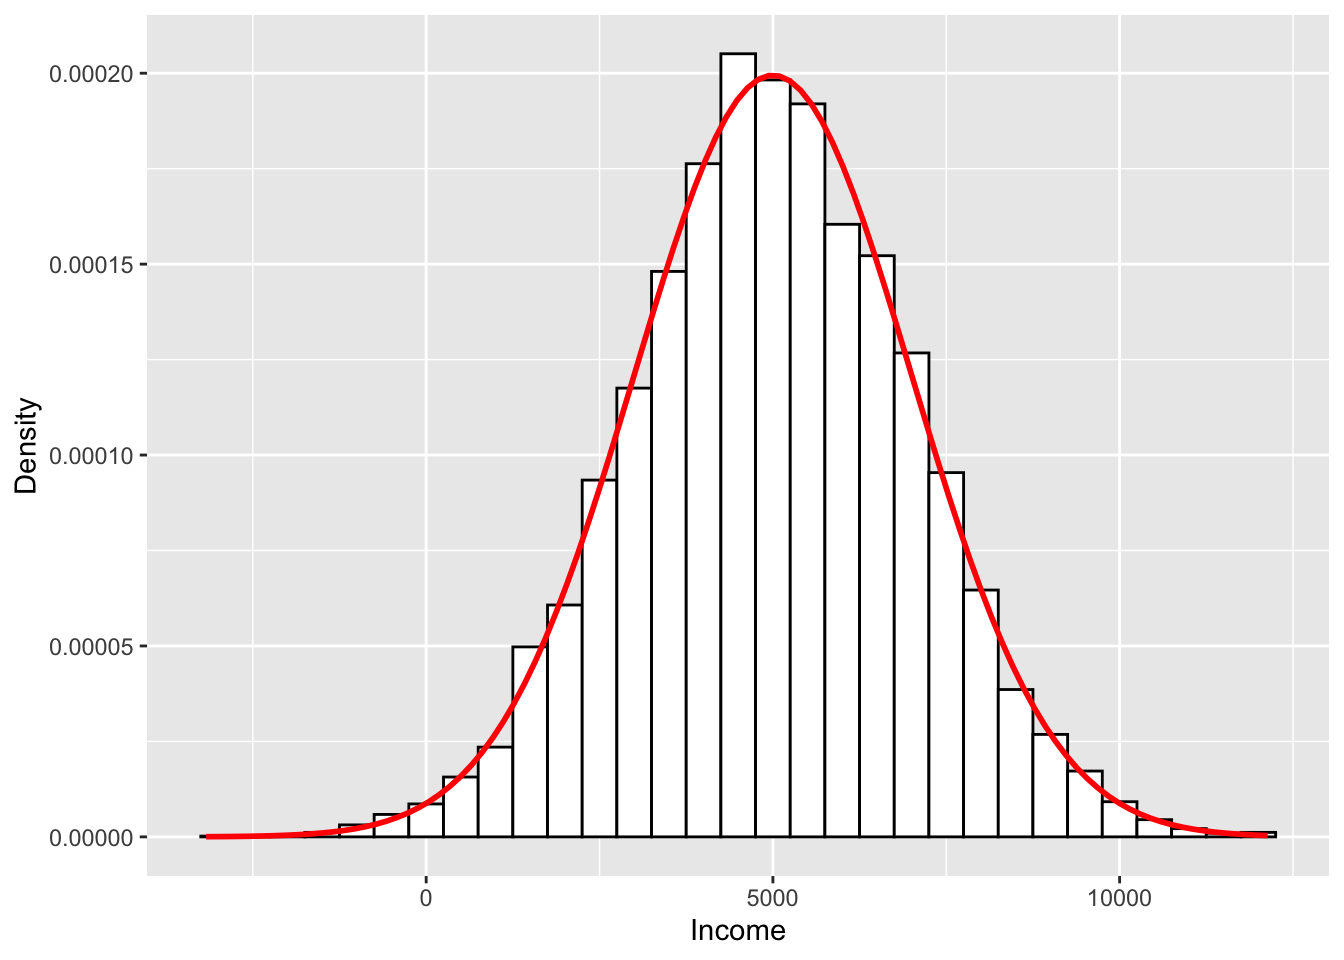
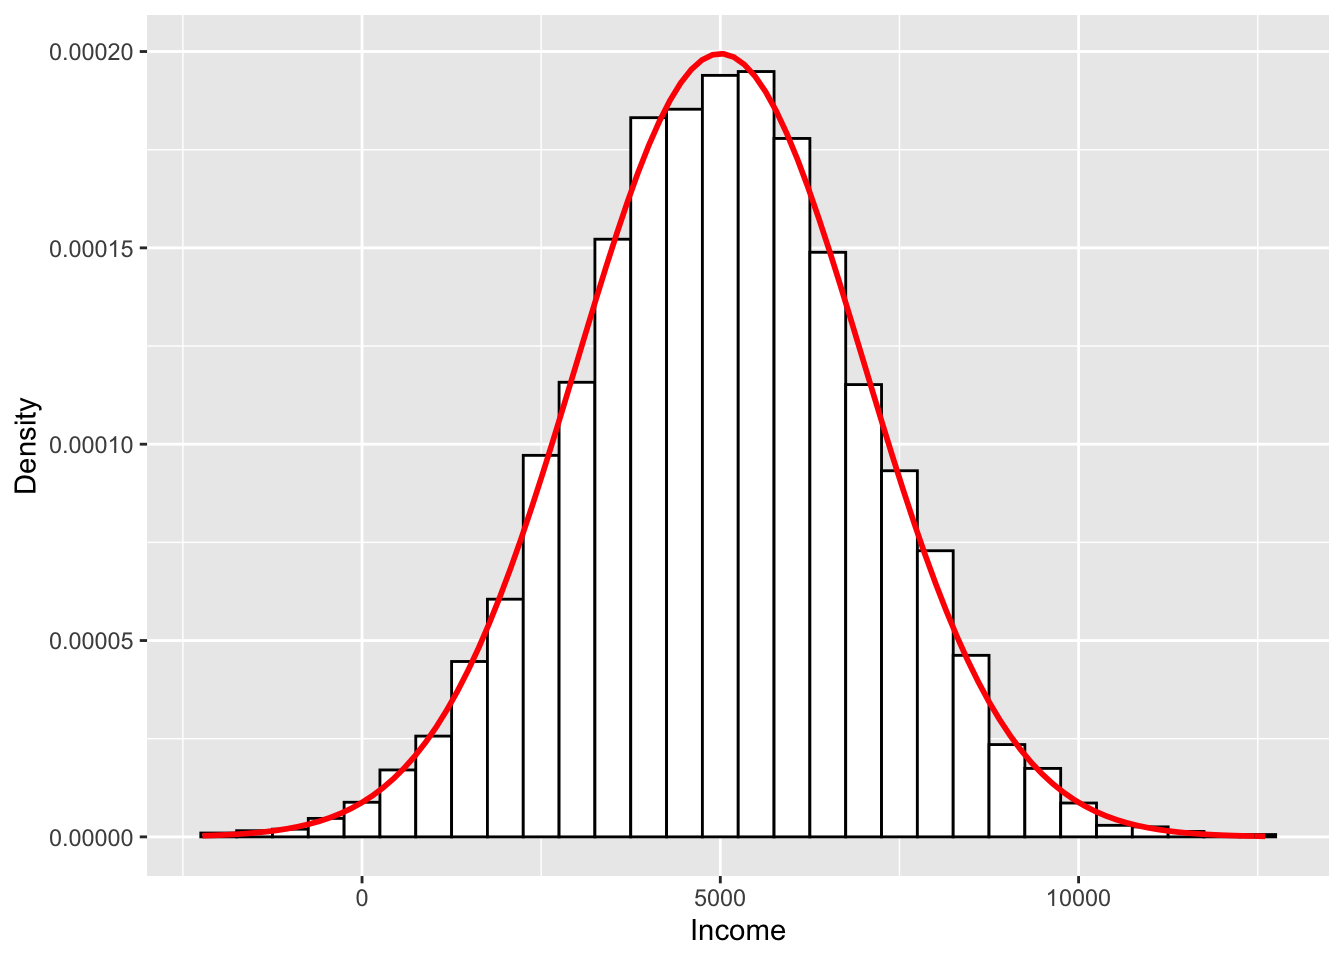
no message

diff --git a/rprogramming/index.html b/rprogramming/index.html
@@ -624,6 +624,7 @@ for (city in Iter_Vec2) {
 <p>これは1の段は<code>1 * 1</code>まで、2の段は<code>2 * 2</code>まで、3の段は<code>3 * 3</code>まで計算し、出力するコードです。2の段の場合、<code>2 * 3</code>や<code>2 * 9</code>などが出力されませんが、これは3の段において<code>3 * 2</code>が、9の段で<code>9 * 2</code>が出力されるので問題ないでしょう。このように多重<code>for()</code>文は複数のベクトルの組み合わせ全てにおいて処理を行う場合、有効です。</p>
 <p>複数のベクトルでなく、データフレームなどの2次元以上データにも多重<code>for()</code>文は使われます。データフレームは複数のベクトルで構成されているため、実質的には複数のベクトルを扱うことになります。今回は例として、<a href="../Data/FIFA_Men.csv">FIFA_Men.csv</a>を利用し、それぞれの国のチーム名、FAFAランキング、ポイントをまとめて表示するコードを書いてみます。全てのチームを出すと結果が長くなるので、OFC (オセアニアサッカー連盟)所属チームだけに絞ります。</p>
 <pre class="r"><code># FIFA_Men.csvを読み込み、myDFという名で保存
+# ファイルのパスは適宜修正してください
 myDF &lt;- read.csv(&quot;Data/FIFA_Men.csv&quot;)
 # myDFのConfederation列がOFCの行だけを抽出
 myDF &lt;- myDF[myDF$Confederation == &quot;OFC&quot;, ]
@@ -800,17 +801,17 @@ while (Total &lt; 30) {
   
   Trial &lt;- Trial + 1
 }</code></pre>
-<pre><code>## [1] &quot;1回目のサイコロ投げの結果: 5(これまでの総和: 5)&quot;
-## [1] &quot;2回目のサイコロ投げの結果: 1(これまでの総和: 6)&quot;
-## [1] &quot;3回目のサイコロ投げの結果: 2(これまでの総和: 8)&quot;
-## [1] &quot;4回目のサイコロ投げの結果: 2(これまでの総和: 10)&quot;
-## [1] &quot;5回目のサイコロ投げの結果: 1(これまでの総和: 11)&quot;
-## [1] &quot;6回目のサイコロ投げの結果: 2(これまでの総和: 13)&quot;
-## [1] &quot;7回目のサイコロ投げの結果: 1(これまでの総和: 14)&quot;
-## [1] &quot;8回目のサイコロ投げの結果: 6(これまでの総和: 20)&quot;
-## [1] &quot;9回目のサイコロ投げの結果: 5(これまでの総和: 25)&quot;
-## [1] &quot;10回目のサイコロ投げの結果: 4(これまでの総和: 29)&quot;
-## [1] &quot;11回目のサイコロ投げの結果: 2(これまでの総和: 31)&quot;</code></pre>
+<pre><code>## [1] &quot;1回目のサイコロ投げの結果: 1(これまでの総和: 1)&quot;
+## [1] &quot;2回目のサイコロ投げの結果: 3(これまでの総和: 4)&quot;
+## [1] &quot;3回目のサイコロ投げの結果: 4(これまでの総和: 8)&quot;
+## [1] &quot;4回目のサイコロ投げの結果: 5(これまでの総和: 13)&quot;
+## [1] &quot;5回目のサイコロ投げの結果: 5(これまでの総和: 18)&quot;
+## [1] &quot;6回目のサイコロ投げの結果: 3(これまでの総和: 21)&quot;
+## [1] &quot;7回目のサイコロ投げの結果: 2(これまでの総和: 23)&quot;
+## [1] &quot;8回目のサイコロ投げの結果: 2(これまでの総和: 25)&quot;
+## [1] &quot;9回目のサイコロ投げの結果: 2(これまでの総和: 27)&quot;
+## [1] &quot;10回目のサイコロ投げの結果: 2(これまでの総和: 29)&quot;
+## [1] &quot;11回目のサイコロ投げの結果: 6(これまでの総和: 35)&quot;</code></pre>
 <p>それでは、コードの説明をします。まず、これまで出た目の和を記録する変数<code>Total</code>を用意し、初期値として0を格納します。また、何回目の投げかを記録するための<code>Trial</code>変数を記録し、初期値として1を格納しておきます (コードの1、2行目)。</p>
 <p>続いて<code>while()</code>文を入れます。反復する条件は<code>Total</code>が30より小さい場合と設定します。つまり、<code>Total</code>が30以上になったら反復を終了することを意味します (コードの4行目)。</p>
 <p>つづいて、サイコロ投げをし、出た目を<code>Dice</code>という変数に格納します。サイコロ投げは1から6の間の整数から無作為に一つを値を抽出することでできます。そこで使われるのが<code>sample()</code>関数です (コードの5行目)。<code>sample()</code>関数は与えられたベクトル内の要素を無作為に抽出する関数です。<code>sample(c(1, 2, 3, 4, 5, 6), 1)</code>は「<code>c(1, 2, 3, 4, 5, 6)</code>から1つの要素を無作為に抽出せよ」という意味です。むろん、複数の要素を抽出することも可能ですし、数値型ベクトルでなく、文字型ベクトルから抽出することも可能です。サイコロ投げをしたら、その目を<code>Total</code>の値に足します (コードの6行目)。</p>
@@ -831,15 +832,16 @@ for (Trial in 1:30) {
     break() # ()は省略可能
   }
 }</code></pre>
-<pre><code>## [1] &quot;1回目のサイコロ投げの結果: 3 (これまでの総和: 3)&quot;
-## [1] &quot;2回目のサイコロ投げの結果: 2 (これまでの総和: 5)&quot;
-## [1] &quot;3回目のサイコロ投げの結果: 1 (これまでの総和: 6)&quot;
-## [1] &quot;4回目のサイコロ投げの結果: 6 (これまでの総和: 12)&quot;
-## [1] &quot;5回目のサイコロ投げの結果: 1 (これまでの総和: 13)&quot;
-## [1] &quot;6回目のサイコロ投げの結果: 5 (これまでの総和: 18)&quot;
-## [1] &quot;7回目のサイコロ投げの結果: 5 (これまでの総和: 23)&quot;
-## [1] &quot;8回目のサイコロ投げの結果: 4 (これまでの総和: 27)&quot;
-## [1] &quot;9回目のサイコロ投げの結果: 5 (これまでの総和: 32)&quot;</code></pre>
+<pre><code>## [1] &quot;1回目のサイコロ投げの結果: 6 (これまでの総和: 6)&quot;
+## [1] &quot;2回目のサイコロ投げの結果: 3 (これまでの総和: 9)&quot;
+## [1] &quot;3回目のサイコロ投げの結果: 3 (これまでの総和: 12)&quot;
+## [1] &quot;4回目のサイコロ投げの結果: 2 (これまでの総和: 14)&quot;
+## [1] &quot;5回目のサイコロ投げの結果: 1 (これまでの総和: 15)&quot;
+## [1] &quot;6回目のサイコロ投げの結果: 3 (これまでの総和: 18)&quot;
+## [1] &quot;7回目のサイコロ投げの結果: 2 (これまでの総和: 20)&quot;
+## [1] &quot;8回目のサイコロ投げの結果: 2 (これまでの総和: 22)&quot;
+## [1] &quot;9回目のサイコロ投げの結果: 4 (これまでの総和: 26)&quot;
+## [1] &quot;10回目のサイコロ投げの結果: 6 (これまでの総和: 32)&quot;</code></pre>
 <p>まず、サイコロを何回投げれば良いかは分かりませんが6面サイコロの場合、30回以内には必ず合計30になるので、まず<code>Trial in 1:30</code>とします。あとは<code>while()</code>文の書き方とほぼ同じですが、今回は<code>i</code>が自動的に更新されるので<code>i &lt;- i + 1</code>は不要です。ただし、一定の条件が満たされる場合、<code>for()</code>文を停止する必要があります。そこで登場するのが条件分岐と<code>break()</code>です。条件分岐は次節で説明しますが、これは「<code>Total</code>が30以上になった場合、ループから脱出せよ」を意味します。このループからの脱出を指示する関数が<code>break()</code>です。ちなみに、<code>break()</code>関数は<code>()</code>を抜いて<code>break</code>と書いても問題ありません。また、<code>if(){}</code>内の処理内容は一行ですので、<code>if (Total &gt;= 30) break</code>のような書き方でも問題ありません。</p>
 <p>これは余談ですが、結果の表示に今回はこれまで使ってきた<code>print()</code>と<code>paste0()</code> (または<code>paste()</code>)を使わず、<code>sprintf()</code>を使いました。人によってはこっちの書き方を好む場合もあります。<code>sprintf()</code>内の<code>%d</code>はその位置に指定された変数の値を整数として代入することを意味します。<code>sprintf()</code>はまず、出力する文字列を指定し、続いて代入する変数を順番に引数として入れます。<code>%s</code>は文字型、<code>%f</code>は実数を意味します。<code>%f</code>の場合、少数点の桁数も指定可能であり、小数点2桁まで表示させる場合は<code>%.2f</code>のように表記します。以下のコードは3つの変数の値と文字列を結合する処理を<code>print(paste0())</code>と<code>sprintf()</code>を用いて書いたものであり、同じ動きをします。</p>
 <pre class="r"><code>Name   &lt;- &quot;Song&quot;
@@ -1317,59 +1319,16 @@ DQ_Attack &lt;- function(attack, defence, hp, enemy) {
 <p>初めて見る関数が3つありますね。まず、<code>floor()</code>関数は引数の端数は切り捨てる関数です。たとえば、<code>floor(2.1)</code>も<code>floor(2.6)</code>も結果は2です。続いて、<code>runif()</code>関数は指定された範囲の一様分布から乱数を生成する関数です。引数は生成する乱数の個数 (<code>n</code>)、最小値 (<code>min</code>)、最大値 (<code>max</code>)の3つです。<code>runif(5, 3, 10)</code>なら最小値3、最大値10の乱数を5個生成するという意味です。正規分布は平均値周辺の値が生成されやすい一方、一様分布の場合、ある値が抽出される確率は同じです。最後に<code>round()</code>関数は四捨五入の関数です。引数は2つあり、1つ目の引数は数値型のベクトルです。2つ目は丸める小数点です。たとえば、<code>round(3.127, 1)</code>の結果は<code>3.1</code>であり、<code>round(3.127, 2)</code>の結果は<code>3.13</code>となります。</p>
 <p>それでは「ひのきのぼう」を装備したレベル1の勇者を考えてみましょう。ドラクエ5の場合、Lv1勇者の力は11、「ひのきのぼう」の攻撃力は2ですので、攻撃力は13です。まずは定番のスライムから狩ってみましょう。スライムのHPと守備力は両方7です。</p>
 <pre class="r"><code>DQ_Attack(13, defence = 7, hp = 7, &quot;スライム&quot;)</code></pre>
-<pre><code>## [1] &quot;スライムに6のダメージ!!&quot;
+<pre><code>## [1] &quot;スライムに5のダメージ!!&quot;
 ## [1] &quot;スライムに4のダメージ!!&quot;</code></pre>
 <pre><code>## [1] &quot;スライムをやっつけた！&quot;</code></pre>
 <p>まぁ、こんなもんでしょう。それではスライムナイト (=ピエール)はどうでしょう。スライムナイトのHPのは40、守備力は44です。</p>
 <pre class="r"><code>DQ_Attack(13, defence = 44, hp = 40, &quot;スライムナイト&quot;)</code></pre>
 <pre><code>## [1] &quot;スライムナイトに0のダメージ!!&quot;
-## [1] &quot;スライムナイトに1のダメージ!!&quot;
-## [1] &quot;スライムナイトに0のダメージ!!&quot;
-## [1] &quot;スライムナイトに1のダメージ!!&quot;
-## [1] &quot;スライムナイトに0のダメージ!!&quot;
-## [1] &quot;スライムナイトに0のダメージ!!&quot;
-## [1] &quot;スライムナイトに0のダメージ!!&quot;
-## [1] &quot;スライムナイトに0のダメージ!!&quot;
-## [1] &quot;スライムナイトに1のダメージ!!&quot;
-## [1] &quot;スライムナイトに0のダメージ!!&quot;
-## [1] &quot;スライムナイトに1のダメージ!!&quot;
-## [1] &quot;スライムナイトに0のダメージ!!&quot;
-## [1] &quot;スライムナイトに0のダメージ!!&quot;
-## [1] &quot;スライムナイトに0のダメージ!!&quot;
-## [1] &quot;スライムナイトに0のダメージ!!&quot;
-## [1] &quot;スライムナイトに1のダメージ!!&quot;
 ## [1] &quot;スライムナイトに0のダメージ!!&quot;
 ## [1] &quot;スライムナイトに0のダメージ!!&quot;
 ## [1] &quot;スライムナイトに1のダメージ!!&quot;
 ## [1] &quot;スライムナイトに1のダメージ!!&quot;
-## [1] &quot;スライムナイトに1のダメージ!!&quot;
-## [1] &quot;スライムナイトに1のダメージ!!&quot;
-## [1] &quot;スライムナイトに1のダメージ!!&quot;
-## [1] &quot;スライムナイトに1のダメージ!!&quot;
-## [1] &quot;スライムナイトに1のダメージ!!&quot;
-## [1] &quot;スライムナイトに1のダメージ!!&quot;
-## [1] &quot;スライムナイトに1のダメージ!!&quot;
-## [1] &quot;スライムナイトに1のダメージ!!&quot;
-## [1] &quot;スライムナイトに1のダメージ!!&quot;
-## [1] &quot;スライムナイトに0のダメージ!!&quot;
-## [1] &quot;スライムナイトに0のダメージ!!&quot;
-## [1] &quot;スライムナイトに0のダメージ!!&quot;
-## [1] &quot;スライムナイトに1のダメージ!!&quot;
-## [1] &quot;スライムナイトに1のダメージ!!&quot;
-## [1] &quot;スライムナイトに0のダメージ!!&quot;
-## [1] &quot;スライムナイトに1のダメージ!!&quot;
-## [1] &quot;スライムナイトに0のダメージ!!&quot;
-## [1] &quot;スライムナイトに0のダメージ!!&quot;
-## [1] &quot;スライムナイトに1のダメージ!!&quot;
-## [1] &quot;スライムナイトに0のダメージ!!&quot;
-## [1] &quot;スライムナイトに1のダメージ!!&quot;
-## [1] &quot;スライムナイトに1のダメージ!!&quot;
-## [1] &quot;スライムナイトに1のダメージ!!&quot;
-## [1] &quot;スライムナイトに0のダメージ!!&quot;
-## [1] &quot;スライムナイトに0のダメージ!!&quot;
-## [1] &quot;スライムナイトに0のダメージ!!&quot;
-## [1] &quot;スライムナイトに1のダメージ!!&quot;
-## [1] &quot;スライムナイトに0のダメージ!!&quot;
 ## [1] &quot;スライムナイトに1のダメージ!!&quot;
 ## [1] &quot;スライムナイトに0のダメージ!!&quot;
 ## [1] &quot;スライムナイトに1のダメージ!!&quot;
@@ -1378,9 +1337,22 @@ DQ_Attack &lt;- function(attack, defence, hp, enemy) {
 ## [1] &quot;スライムナイトに0のダメージ!!&quot;
 ## [1] &quot;スライムナイトに1のダメージ!!&quot;
 ## [1] &quot;スライムナイトに1のダメージ!!&quot;
+## [1] &quot;スライムナイトに1のダメージ!!&quot;
 ## [1] &quot;スライムナイトに0のダメージ!!&quot;
 ## [1] &quot;スライムナイトに1のダメージ!!&quot;
 ## [1] &quot;スライムナイトに0のダメージ!!&quot;
+## [1] &quot;スライムナイトに0のダメージ!!&quot;
+## [1] &quot;スライムナイトに1のダメージ!!&quot;
+## [1] &quot;スライムナイトに1のダメージ!!&quot;
+## [1] &quot;スライムナイトに0のダメージ!!&quot;
+## [1] &quot;スライムナイトに1のダメージ!!&quot;
+## [1] &quot;スライムナイトに1のダメージ!!&quot;
+## [1] &quot;スライムナイトに0のダメージ!!&quot;
+## [1] &quot;スライムナイトに1のダメージ!!&quot;
+## [1] &quot;スライムナイトに1のダメージ!!&quot;
+## [1] &quot;スライムナイトに0のダメージ!!&quot;
+## [1] &quot;スライムナイトに0のダメージ!!&quot;
+## [1] &quot;スライムナイトに1のダメージ!!&quot;
 ## [1] &quot;スライムナイトに1のダメージ!!&quot;
 ## [1] &quot;スライムナイトに0のダメージ!!&quot;
 ## [1] &quot;スライムナイトに0のダメージ!!&quot;
@@ -1391,16 +1363,44 @@ DQ_Attack &lt;- function(attack, defence, hp, enemy) {
 ## [1] &quot;スライムナイトに1のダメージ!!&quot;
 ## [1] &quot;スライムナイトに0のダメージ!!&quot;
 ## [1] &quot;スライムナイトに1のダメージ!!&quot;
+## [1] &quot;スライムナイトに1のダメージ!!&quot;
+## [1] &quot;スライムナイトに0のダメージ!!&quot;
+## [1] &quot;スライムナイトに0のダメージ!!&quot;
+## [1] &quot;スライムナイトに0のダメージ!!&quot;
+## [1] &quot;スライムナイトに0のダメージ!!&quot;
+## [1] &quot;スライムナイトに1のダメージ!!&quot;
 ## [1] &quot;スライムナイトに0のダメージ!!&quot;
 ## [1] &quot;スライムナイトに1のダメージ!!&quot;
 ## [1] &quot;スライムナイトに1のダメージ!!&quot;
 ## [1] &quot;スライムナイトに1のダメージ!!&quot;
 ## [1] &quot;スライムナイトに1のダメージ!!&quot;
+## [1] &quot;スライムナイトに0のダメージ!!&quot;
+## [1] &quot;スライムナイトに1のダメージ!!&quot;
 ## [1] &quot;スライムナイトに1のダメージ!!&quot;
 ## [1] &quot;スライムナイトに0のダメージ!!&quot;
 ## [1] &quot;スライムナイトに0のダメージ!!&quot;
+## [1] &quot;スライムナイトに1のダメージ!!&quot;
+## [1] &quot;スライムナイトに0のダメージ!!&quot;
 ## [1] &quot;スライムナイトに0のダメージ!!&quot;
 ## [1] &quot;スライムナイトに1のダメージ!!&quot;
+## [1] &quot;スライムナイトに1のダメージ!!&quot;
+## [1] &quot;スライムナイトに1のダメージ!!&quot;
+## [1] &quot;スライムナイトに0のダメージ!!&quot;
+## [1] &quot;スライムナイトに0のダメージ!!&quot;
+## [1] &quot;スライムナイトに1のダメージ!!&quot;
+## [1] &quot;スライムナイトに0のダメージ!!&quot;
+## [1] &quot;スライムナイトに1のダメージ!!&quot;
+## [1] &quot;スライムナイトに0のダメージ!!&quot;
+## [1] &quot;スライムナイトに1のダメージ!!&quot;
+## [1] &quot;スライムナイトに1のダメージ!!&quot;
+## [1] &quot;スライムナイトに1のダメージ!!&quot;
+## [1] &quot;スライムナイトに0のダメージ!!&quot;
+## [1] &quot;スライムナイトに1のダメージ!!&quot;
+## [1] &quot;スライムナイトに0のダメージ!!&quot;
+## [1] &quot;スライムナイトに1のダメージ!!&quot;
+## [1] &quot;スライムナイトに1のダメージ!!&quot;
+## [1] &quot;スライムナイトに0のダメージ!!&quot;
+## [1] &quot;スライムナイトに0のダメージ!!&quot;
 ## [1] &quot;スライムナイトに0のダメージ!!&quot;
 ## [1] &quot;スライムナイトに1のダメージ!!&quot;</code></pre>
 <pre><code>## [1] &quot;スライムナイトをやっつけた！&quot;</code></pre>

diff --git a/dplyr_intro/index.html b/dplyr_intro/index.html
@@ -199,8 +199,9 @@
 ## x dplyr::filter() masks stats::filter()
 ## x dplyr::lag()    masks stats::lag()</code></pre>
 <p>それでは今回の実習用データを読み込みましょう。<a href="../Data/Ramen.csv">Ramen.csv</a>には「<a href="https://www.gnavi.co.jp">ぐるなび</a>」から取得したラーメン屋6292店舗の情報が入っています。具体的には東京、神奈川、千葉、埼玉、大阪、京都、兵庫、奈良、和歌山それぞれ都府県にあるラーメン屋の中から最大1000店舗の情報を抽出したものです。東京都は、ぐるなびに登録したラーメン屋が3000店舗以上ですが、1000店舗の基準はぐるなびの「おすすめ」の順で上位1000店舗となります。また、店側またはぐるなびが登録したカテゴリを基準に抽出したため、実際はラーメン屋ではないにもかかわらずラーメン屋としてデータ内に含まれている可能性があります。</p>
-<p>まず、このデータを読み込み、<code>df</code>という名付けます。</p>
-<pre class="r numberLines"><code>df &lt;- read_csv(&quot;Data/Ramen.csv&quot;)</code></pre>
+<p>まず、このデータを読み込み、<code>df</code>という名付けます。R内蔵関数である<code>read.csv()</code>を使ってデータを読み込んでも以下の内容を実習するにあたって全く問題はございません。<code>read.csv()</code>から読み込まれたデータのクラスはデータフレーム、<code>read_csv()</code>の場合はtibbleです。tibbleはデータフレームの拡張版であり、データフレームで可能な操作は全てtibbleにおいても可能です。ここではtibbleを使いますが、こちらの方が、結果が読みやすく出力されるからです。</p>
+<pre class="r numberLines"><code># ファイルのパスは適宜修正してください
+df &lt;- read_csv(&quot;Data/Ramen.csv&quot;)</code></pre>
 <pre><code>## Parsed with column specification:
 ## cols(
 ##   ID = col_character(),
@@ -218,6 +219,12 @@
 ##   ScoreN = col_double(),
 ##   Score = col_double()
 ## )</code></pre>
+<p>本サンプルデータはUTF-8で保存されており、文字化けが生じる場合、以下のように対処してください。</p>
+<pre class="r"><code># readrパッケージのread_csv()を使う場合
+df &lt;- read_csv(&quot;Data/Ramen.csv&quot;, locale = locale(encoding = &quot;utf8&quot;))
+
+# R内臓のread.csv()を使う場合
+df &lt;- read_csv(&quot;Data/Ramen.csv&quot;, fileEncoding = &quot;utf8&quot;)</code></pre>
 <p>データの中身を確認してみましょう。</p>
 <pre class="r numberLines"><code>df</code></pre>
 <pre><code>## # A tibble: 6,292 x 14

diff --git a/simulation/llm/index.html b/simulation/llm/index.html
@@ -210,7 +210,7 @@ library(tidyverse)</code></pre>
 <p>これで10210人のナウル国民の所得を設定した。ならば生成されたデータを見てみる。</p>
 <pre class="r"><code>summary(nauru.income)</code></pre>
 <pre><code>##    Min. 1st Qu.  Median    Mean 3rd Qu.    Max. 
-##   -3173    3656    4974    4995    6375   12135</code></pre>
+##   -2227    3664    5010    5005    6355   12604</code></pre>
 <p>ナウル国民の所得の平均は5017ドル、最小値は-1761だそうだ。「所得にマイナスなんてあり得るか！」と思うかも知れないが、細かいことは無視しよう。知りたいのは大数の法則を経験的に確認することであって、ナウル国民の所得ではない。</p>
 <p>次はヒストグラムで見てみよう。</p>
 <pre class="r"><code>plot1 &lt;- ggplot(data = data.frame(nauru.income)) + 

diff --git a/simulation/mhp/index.html b/simulation/mhp/index.html
@@ -247,8 +247,8 @@ MH.sim &lt;- function(trials = 1000){
 table(MH.Result$if.switch)</code></pre>
 <pre><code>## 
 ##    0    1 
-## 3257 6743</code></pre>
-<p>1万回のシミュレーションの結果、選択肢を変えた場合の当たり率は67.43%、変えなかった場合は32.57%であり、ほぼ2倍になることが分かる。</p>
+## 3391 6609</code></pre>
+<p>1万回のシミュレーションの結果、選択肢を変えた場合の当たり率は66.09%、変えなかった場合は33.91%であり、ほぼ2倍になることが分かる。</p>
 </div>
 </div>
 
